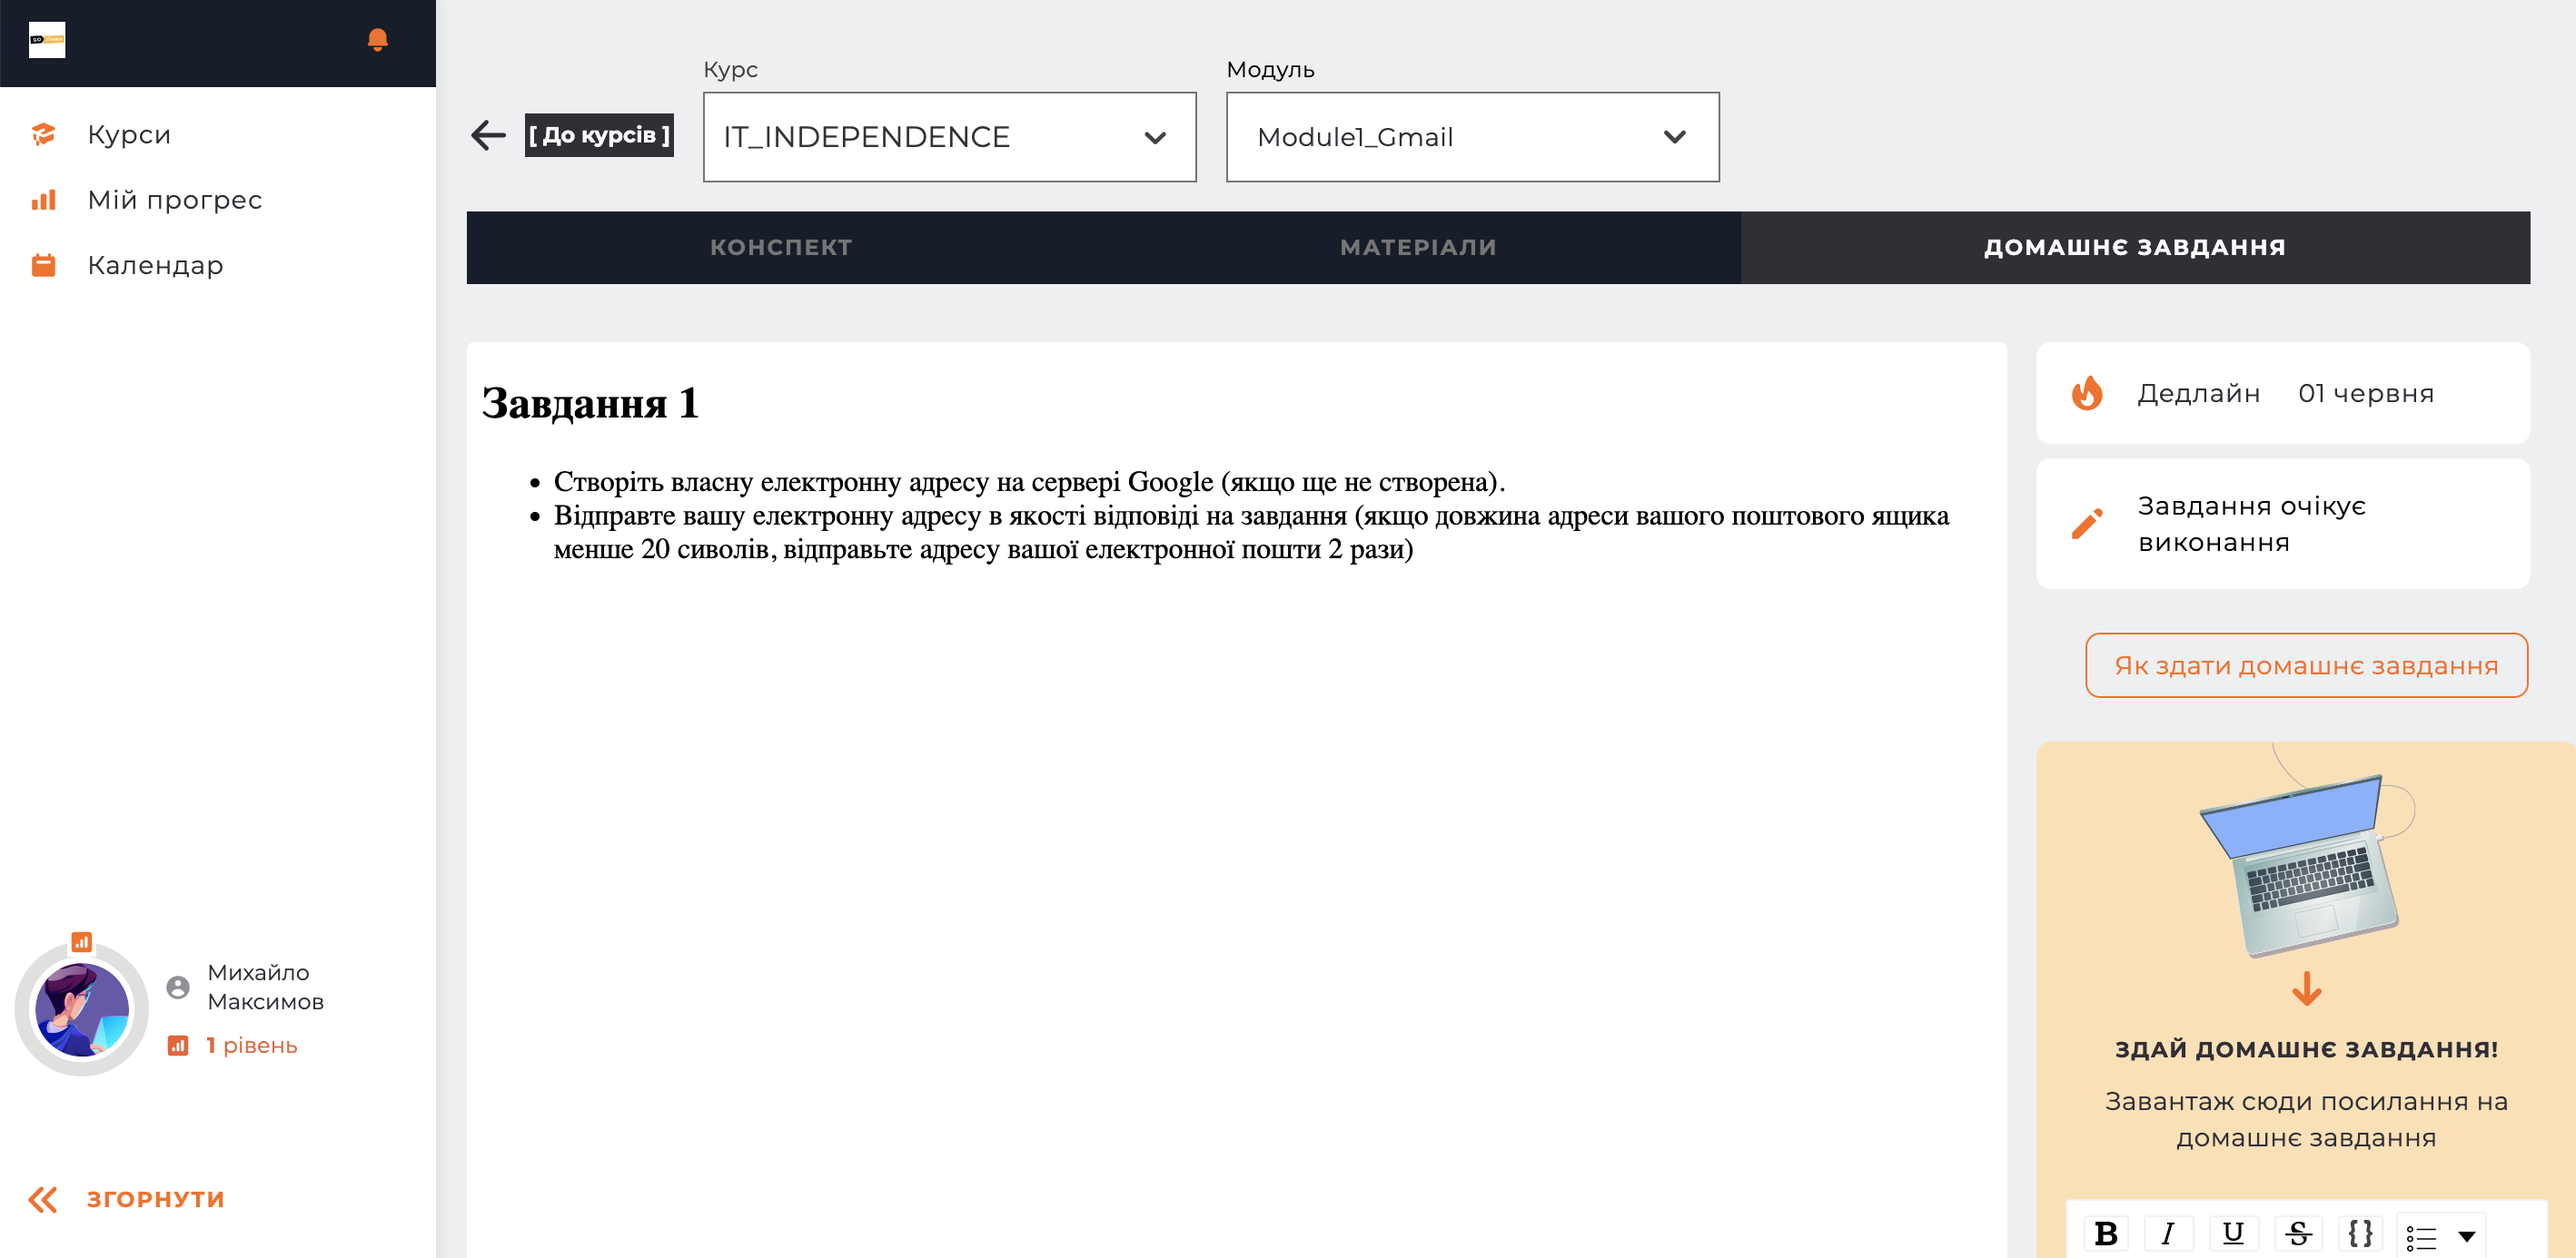
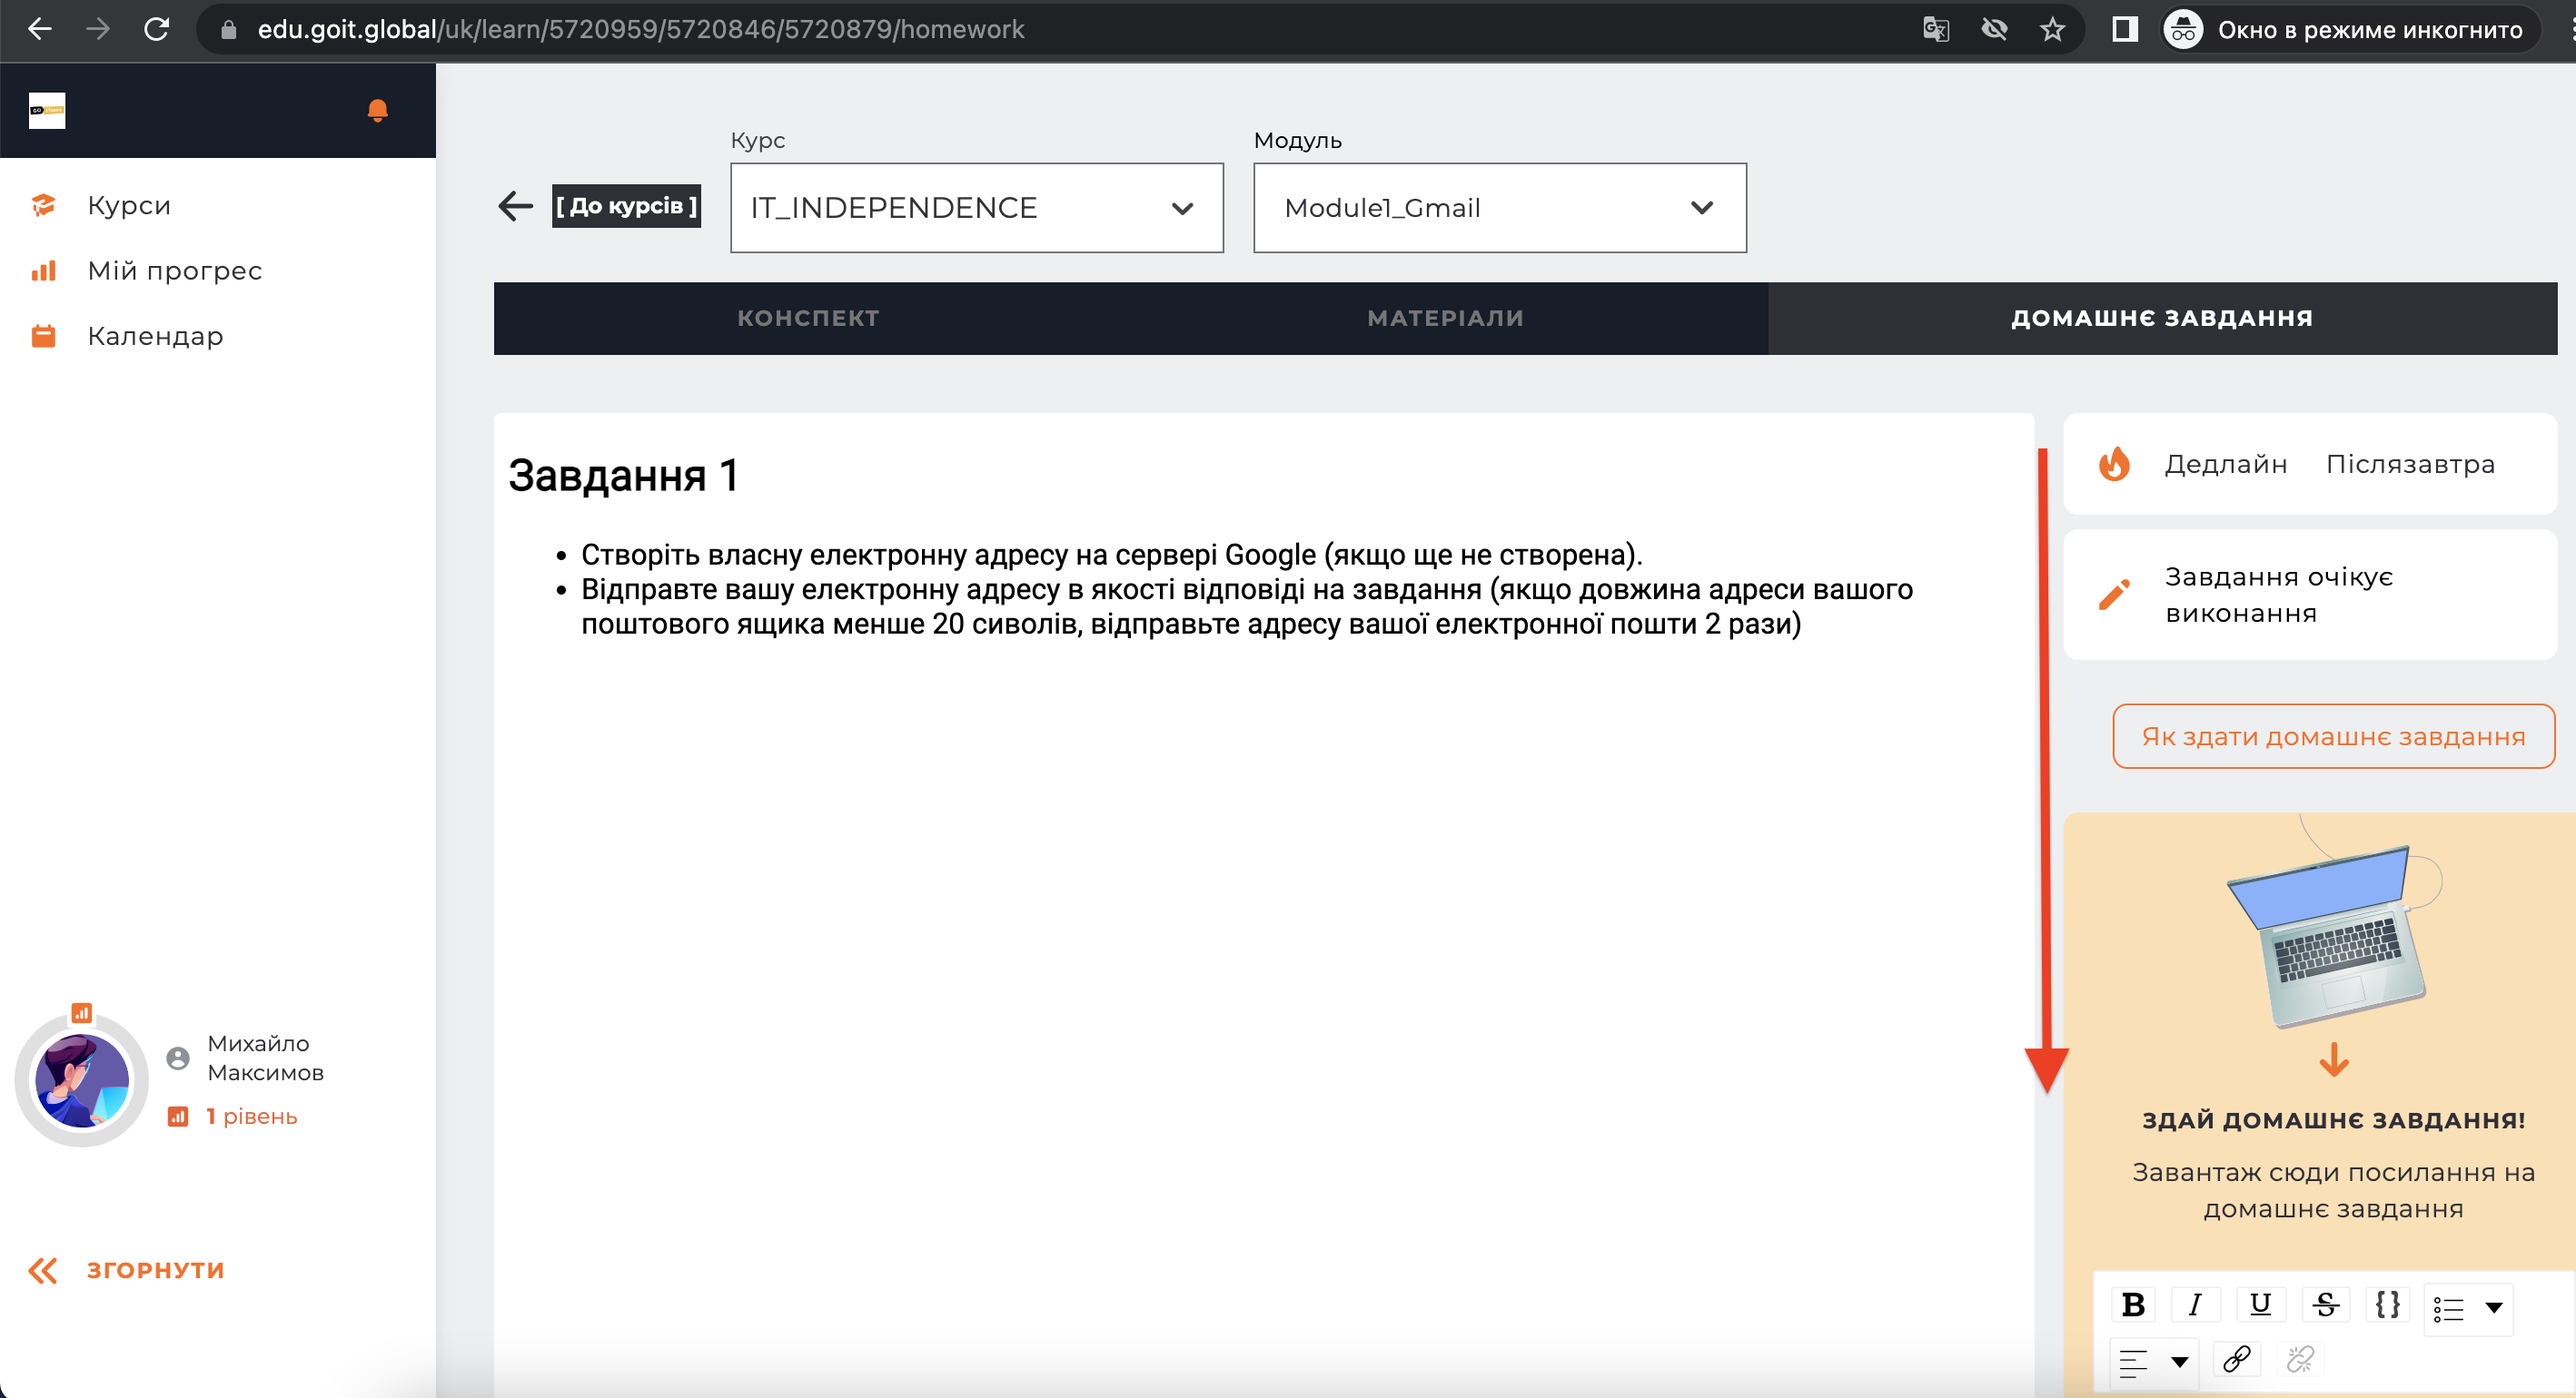
it-independence

diff --git a/lms/README.MD b/lms/README.MD
@@ -1,0 +1,26 @@
+# LMS
+## Перехід за посиалнням
+Даємо клієнтам посилання для підключення на курс: https://www.edu.goit.global/uk/account/signup?stream=itindependence&tel=1&locale=uk   
+Після натискання на посилання клієнт переходить на сторінку реєстрації:  
+
+<img src = "img/lms01.png">  
+Заповнює свої дані:  
+<img src = "img/lms02.png">  
+
+## Вхід до LMS
+Після реєстрації клієнт попадає на головну сторінку де бачить всі доступні курси (зараз - лише IT-independence):  
+<img src = "img/lms03.png">  
+
+## Курс
+В матеріалах курса клієнт побачить:
+- Підручник:  
+<img src = "img/lms04.png">  
+
+- Матеріали курсу (відео):  
+<img src = "img/lms05.png"> 
+
+- Домашнє завдання 
+<img src = "img/lms06.png">  
+
+- Форму для відправлення виконаного домашнього завдання:  
+<img src = "img/lms07.png">  
